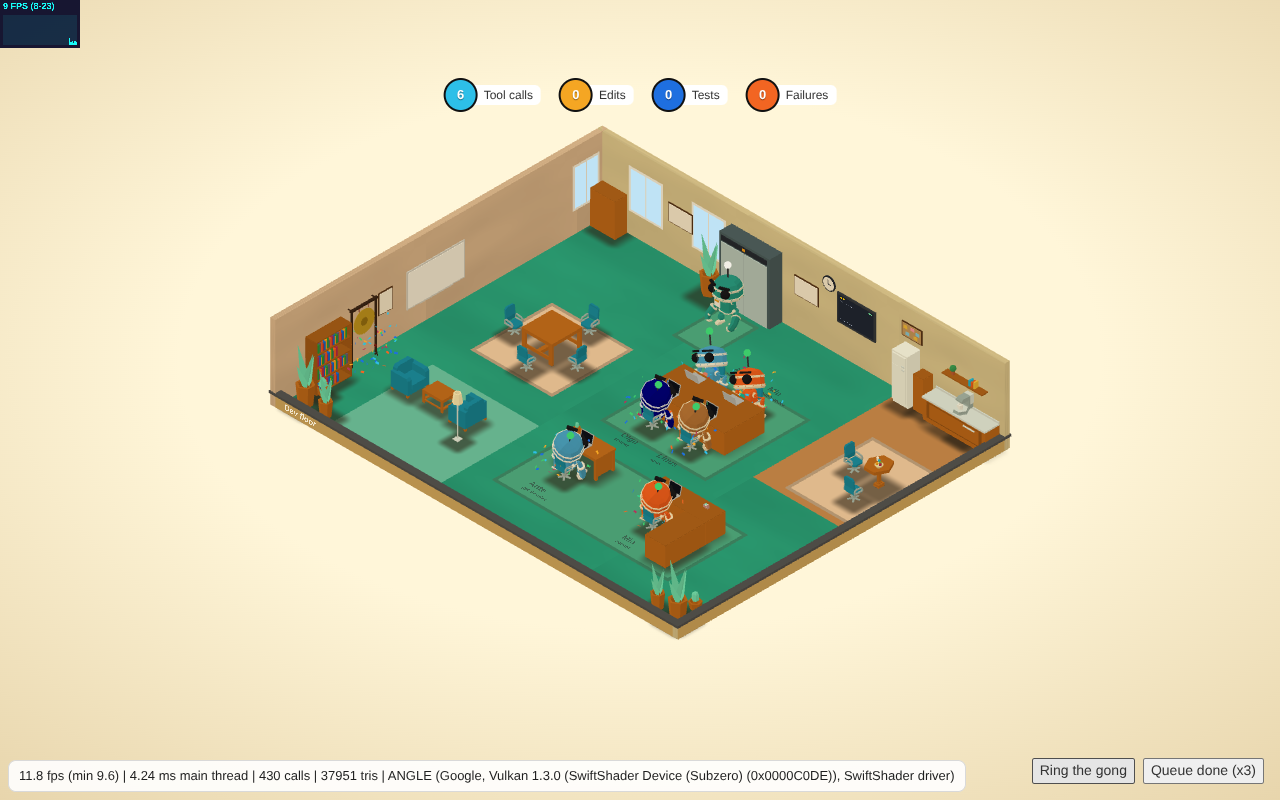
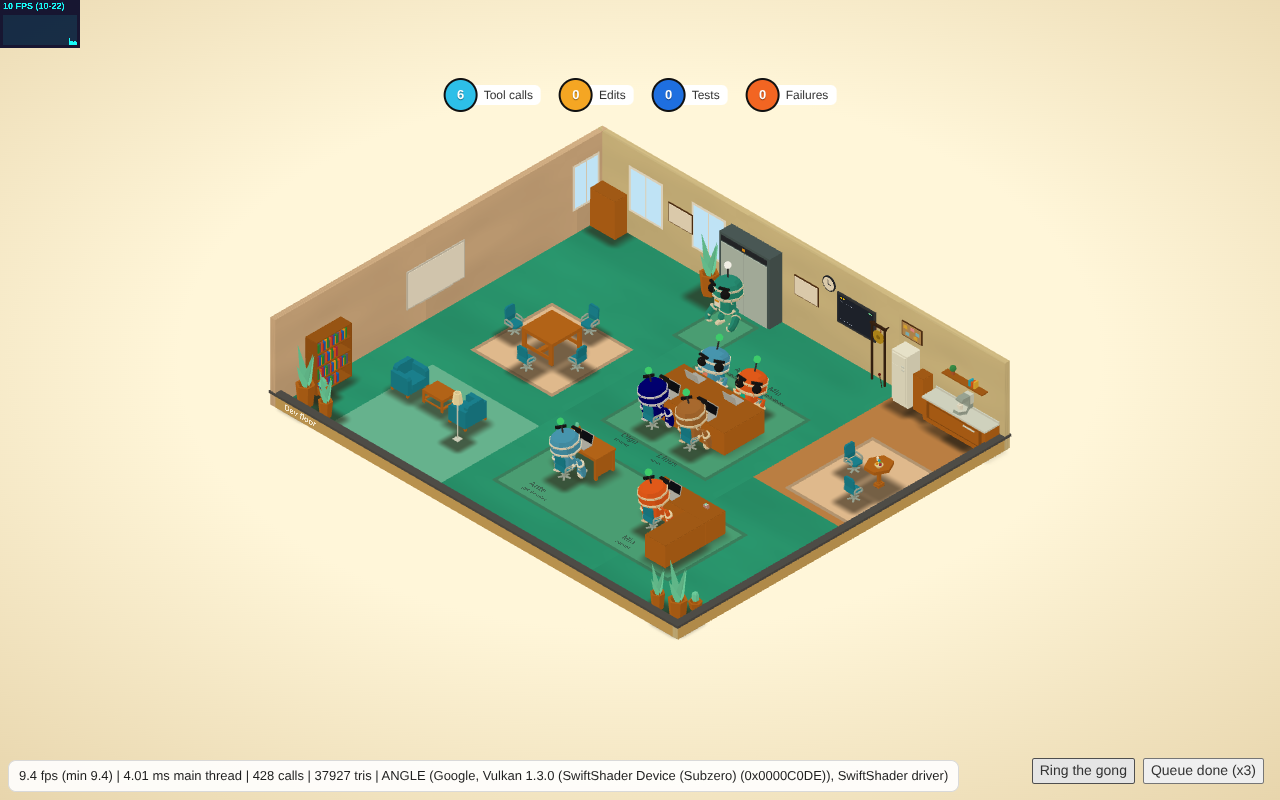
Ring the gong when a room's task queue empties; keep E targets apart
#37's queue landed on master: its publisher is wrapped so a room going from
queued or running tasks to none, with at least one task done, gets the triple
ring. The small room's gong moves to the north wall so no board or queue
clipboard answers E at its stand point (a test checks every tier), and the
e2e keeps pressing E until the walk to the gong has finished on slow GL.

diff --git a/apps/server/src/celebrations/queue-watch.test.ts b/apps/server/src/celebrations/queue-watch.test.ts
@@ -1,0 +1,57 @@
+/** The task queue emptying rings the gong (#43 with #37): only on a real transition to empty. */
+import { describe, expect, test } from "bun:test";
+import type { QueueSettings, QueueTask } from "@regulus/protocol";
+import { watchQueueEmptied } from "./queue-watch.ts";
+
+const settings = {} as QueueSettings;
+const task = (id: string, state: QueueTask["state"]) => ({ id, state }) as unknown as QueueTask;
+
+function setup() {
+  const published: string[] = [];
+  const rang: string[] = [];
+  const rooms = {
+    publishQueue: (floorId: string, _t: readonly QueueTask[], _s: QueueSettings) =>
+      void published.push(floorId),
+    other: () => "kept",
+  };
+  const watched = watchQueueEmptied(rooms, (id) => rang.push(id));
+  return { watched, published, rang };
+}
+
+describe("watchQueueEmptied", () => {
+  test("open work finishing rings once; the publish still goes through", () => {
+    const s = setup();
+    s.watched.publishQueue("f1", [task("a", "queued"), task("b", "running")], settings);
+    s.watched.publishQueue("f1", [task("a", "running"), task("b", "done")], settings);
+    expect(s.rang).toEqual([]);
+    s.watched.publishQueue("f1", [task("a", "failed"), task("b", "done")], settings);
+    s.watched.publishQueue("f1", [task("a", "failed"), task("b", "done")], settings);
+    expect(s.rang).toEqual(["f1"]);
+    expect(s.published).toHaveLength(4);
+    expect(s.watched.other()).toBe("kept");
+  });
+
+  test("no ring after a restart, for a cancelled-only queue, or on another floor", () => {
+    const s = setup();
+    s.watched.publishQueue("f1", [task("a", "done")], settings);
+    s.watched.publishQueue("f2", [task("c", "queued")], settings);
+    s.watched.publishQueue("f2", [task("c", "cancelled")], settings);
+    expect(s.rang).toEqual([]);
+  });
+
+  test("a throwing ring never breaks the queue's publish", () => {
+    const published: string[] = [];
+    const watched = watchQueueEmptied(
+      {
+        publishQueue: (id: string, _t: readonly QueueTask[], _s: QueueSettings) =>
+          void published.push(id),
+      },
+      () => {
+        throw new Error("boom");
+      },
+    );
+    watched.publishQueue("f1", [task("a", "running")], settings);
+    expect(() => watched.publishQueue("f1", [task("a", "done")], settings)).not.toThrow();
+    expect(published).toEqual(["f1", "f1"]);
+  });
+});

diff --git a/apps/web/src/scene/gong/gong.test.ts b/apps/web/src/scene/gong/gong.test.ts
@@ -1,10 +1,13 @@
 /** The merge gong's client side (#43): where it hangs, its timing, its synth and its messages. */
 import { describe, expect, test } from "bun:test";
-import { FLOOR_TIERS, lobbyTemplate, templateForTier } from "@regulus/floor-layout";
+import { FLOOR_TIERS, interactables, lobbyTemplate, templateForTier } from "@regulus/floor-layout";
 import type { CommandRejected } from "@regulus/protocol";
 import { create } from "zustand";
 import { CONFETTI_CAPACITY, ConfettiField } from "../robots/confetti.ts";
-import { gongAnchors, gongInReach } from "./gongAnchor.ts";
+import { GONG_INTERACT_RADIUS, gongAnchors, gongInReach } from "./gongAnchor.ts";
+
+const BOARD_LIKE = new Set(["issue_board", "pr_board", "queue_clipboard"]);
+
 import { useGongStore } from "./gongStore.ts";
 import { bangGong, syncGong } from "./gongSync.ts";
 import { type GongAudio, gongVoices, playGong } from "./gongSynth.ts";
@@ -34,6 +37,21 @@ describe("gong anchor", () => {
       // The confetti point is between the wall and the stand point.
       const toWall = Math.hypot(gong.front.x - gong.stand.x, gong.front.z - gong.stand.z);
       expect(toWall).toBeCloseTo(gong.anchor.approach - 0.3, 6);
+    },
+  );
+
+  test.each([...FLOOR_TIERS])(
+    "in the %s room no other E target reaches the gong's stand",
+    (tier) => {
+      const t = templateForTier(tier);
+      const [gong] = gongAnchors(t);
+      if (!gong) throw new Error("no gong");
+      // Boards and the queue clipboard answer E within 1.4 m of their stand points.
+      for (const a of interactables(t)) {
+        if (a.id === gong.anchor.id || !BOARD_LIKE.has(a.kind)) continue;
+        const d = Math.hypot(a.standAt.x - gong.stand.x, a.standAt.z - gong.stand.z);
+        expect([a.id, d > 1.4 + GONG_INTERACT_RADIUS]).toEqual([a.id, true]);
+      }
     },
   );
 

diff --git a/apps/server/src/index.ts b/apps/server/src/index.ts
@@ -14,7 +14,7 @@ import {
   type OfficeAuth,
   originPolicyFor,
 } from "./auth/index.ts";
-import { createCelebrations } from "./celebrations/index.ts";
+import { createCelebrations, watchQueueEmptied } from "./celebrations/index.ts";
 import { ChangesService, mountChangesRoutes } from "./changes/index.ts";
 import { ConfigError, loadConfig, redactConfig } from "./config.ts";
 import { mountCredentialPanel } from "./credentials/panel.ts";
@@ -237,7 +237,7 @@ async function main(): Promise<void> {
     logger: logger.child({ module: "github-sync" }),
   });
   mountGitHubSyncRoutes(server.router, { auth, sync: githubSync });
-  // Merge gong (#43): merged PRs and manual bangs ring on the floor; #37's queue calls queueEmptied.
+  // Merge gong (#43): merged PRs, manual bangs and emptied task queues (#37) ring on the floor.
   const celebrations = createCelebrations({
     db,
     floors: rooms.floors,
@@ -290,7 +290,12 @@ async function main(): Promise<void> {
     changes: new ChangesService({ db, runner, repos: floors.repos, clones: worktrees.workspaces }),
   });
   // Room task queues (#37): created before the manager, which reports robot status to it.
-  const tasks = createTaskQueue({ db, rooms: rooms.floors, logger });
+  // A room whose queue empties rings the merge gong three times (#43).
+  const tasks = createTaskQueue({
+    db,
+    rooms: watchQueueEmptied(rooms.floors, (floorId) => celebrations.queueEmptied(floorId)),
+    logger,
+  });
   tasks.queue.followGitHub(githubSync.events);
   // Agents (#26): the manager, its FloorRoom/terminal registration, Claude hook routes (#27).
   const agents = await createAgents({

diff --git a/apps/server/src/celebrations/queue-watch.ts b/apps/server/src/celebrations/queue-watch.ts
@@ -1,0 +1,39 @@
+/**
+ * When a room's task queue (#37) empties (#43): the queue publishes every
+ * change through `publishQueue`; this wraps that publisher and calls
+ * `onEmptied(floorId)` when a room goes from open work (queued or running
+ * tasks) to none, and at least one task finished `done`. A queue that was
+ * only cancelled, or the first publish after a restart, does not ring.
+ */
+import type { QueueSettings, QueueTask } from "@regulus/protocol";
+
+export interface QueuePublisherLike {
+  publishQueue(floorId: string, tasks: readonly QueueTask[], settings: QueueSettings): void;
+}
+
+const isOpen = (t: QueueTask) => t.state === "queued" || t.state === "running";
+
+export function watchQueueEmptied<P extends QueuePublisherLike>(
+  publisher: P,
+  onEmptied: (floorId: string) => void,
+): P {
+  const open = new Map<string, boolean>();
+  return new Proxy(publisher, {
+    get(target, key, receiver) {
+      if (key !== "publishQueue") return Reflect.get(target, key, receiver);
+      return (floorId: string, tasks: readonly QueueTask[], settings: QueueSettings) => {
+        target.publishQueue(floorId, tasks, settings);
+        const wasOpen = open.get(floorId);
+        const nowOpen = tasks.some(isOpen);
+        open.set(floorId, nowOpen);
+        if (wasOpen === true && !nowOpen && tasks.some((t) => t.state === "done")) {
+          try {
+            onEmptied(floorId);
+          } catch {
+            // A ring is decoration; the queue must not notice.
+          }
+        }
+      };
+    },
+  });
+}

diff --git a/tests/e2e/gongChecks.ts b/tests/e2e/gongChecks.ts
@@ -104,9 +104,13 @@ export async function checkMergeGong(page: Page, opts: { githubPort: number; flo
     expect(await gongStrikes(page)).toBe(strikes + 2);
 
     // The click walked us to the gong: once the ring is over, E bangs it too.
+    // Pressing E before arriving (software GL is slow) sends nothing, and a press during the
+    // cooldown is refused without spending a bang, so keep pressing until it rings.
     await page.waitForTimeout(4_200);
-    await page.keyboard.press("e");
-    await expect.poll(() => gongStrikes(page)).toBe(strikes + 3);
+    await expect(async () => {
+      await page.keyboard.press("e");
+      await expect.poll(() => gongStrikes(page), { timeout: 2_000 }).toBe(strikes + 3);
+    }).toPass({ timeout: 30_000 });
   } finally {
     await page.request
       .delete("/api/github/connection", { headers: { origin } })

diff --git a/packages/floor-layout/src/templates/small.ts b/packages/floor-layout/src/templates/small.ts
@@ -98,9 +98,9 @@ export const smallTemplateInput: FloorTemplateInput = {
       w: 0.5,
       h: 0.7,
     },
-    // The merge gong (#43) at the end of the collaboration wall.
-    { id: "gong", kind: "gong", wallId: "west", t: 9.75, y: 1.25, w: 1, h: 1.5 },
     { id: "usage-wall", kind: "usage_wall", wallId: "north", t: 10.25, y: 1.7, w: 1.4, h: 0.9 },
+    // The merge gong (#43) past the usage wall, clear of the queue clipboard's reach.
+    { id: "gong", kind: "gong", wallId: "north", t: 11.25, y: 1.25, w: 0.56, h: 1.5 },
     { id: "picture-n1", kind: "picture", wallId: "north", t: 3.25, y: 1.6, w: 0.9, h: 0.6 },
     { id: "picture-n2", kind: "picture", wallId: "north", t: 8.25, y: 1.6, w: 0.9, h: 0.6 },
   ],

diff --git a/apps/server/src/celebrations/service.ts b/apps/server/src/celebrations/service.ts
@@ -10,8 +10,8 @@
  *   their later report of it a no-op.
  * - `bang(floorId, user)`: a human bangs the gong (`gong.bang`), rate-limited
  *   per floor and per human (bang-limit.ts), broadcast as `gong.ring`.
- * - `queueEmptied(floorId)`: the hook for the task queue (#37). Its last task
- *   done and the queue empty: a triple ring. Repeats within
+ * - `queueEmptied(floorId)`: the task queue (#37) emptied (queue-watch.ts
+ *   detects it from the queue's publishes): a triple ring. Repeats within
  *   `QUEUE_EMPTY_REPEAT_MS` are dropped, so a queue that flaps between one
  *   and zero tasks does not ring each time.
  *

diff --git a/apps/server/src/celebrations/index.ts b/apps/server/src/celebrations/index.ts
@@ -1,6 +1,7 @@
 /** Merge gong (#43): `pr.merged` / `gong.ring` broadcasts to a floor's FloorRoom. */
 export { BangLimiter, type BangLimits, DEFAULT_BANG_LIMITS } from "./bang-limit.ts";
 export { gongMark, type MergedPull, mergedPullOf } from "./merges.ts";
+export { watchQueueEmptied } from "./queue-watch.ts";
 export {
   type Celebrations,
   type CelebrationsDeps,
